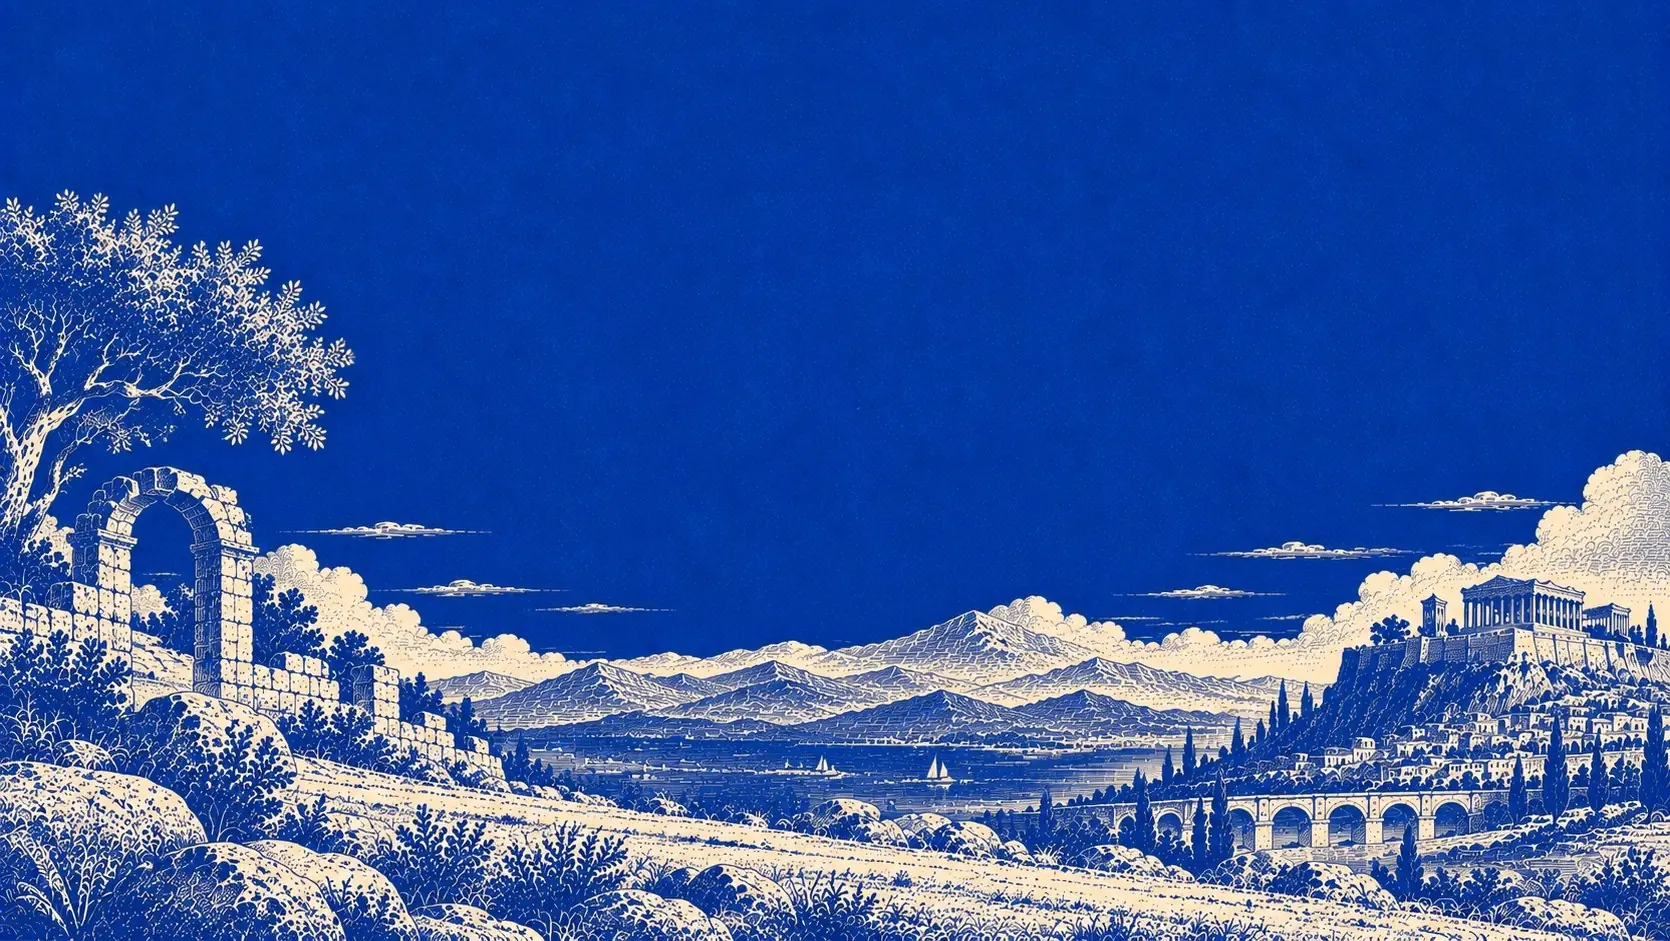
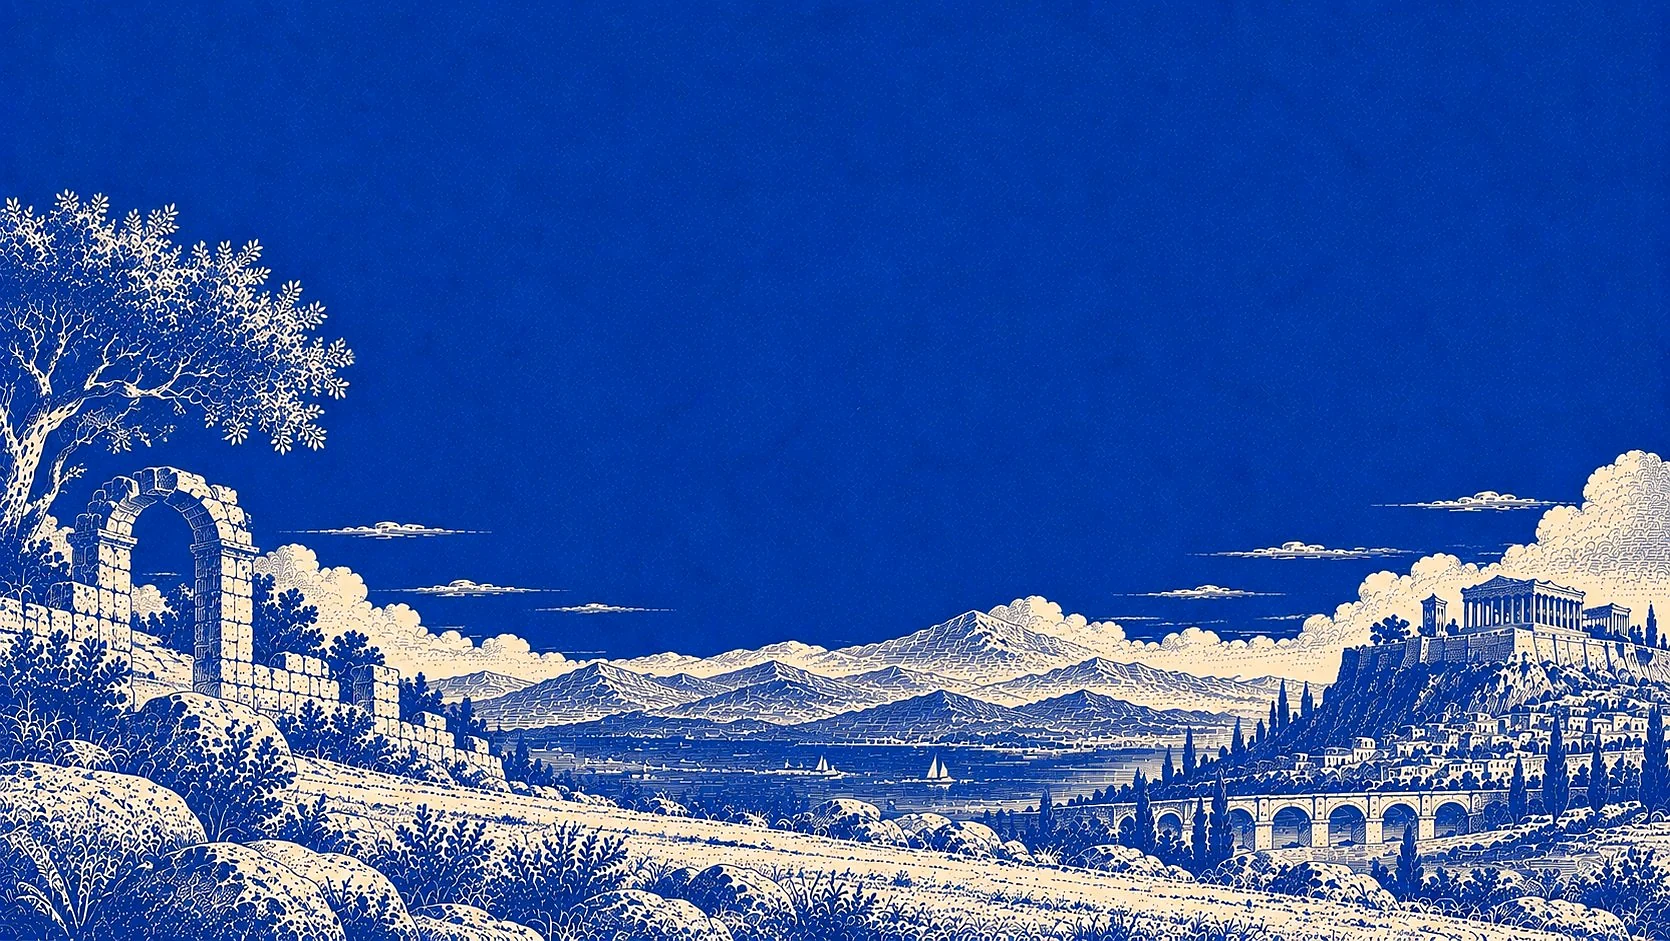
plate: liquid glass card + teks putih, gambar di-pertajam (q86)

diff --git a/src/styles/global.css b/src/styles/global.css
@@ -185,11 +185,31 @@ a .gw{text-decoration:inherit;text-decoration-color:inherit;text-underline-offse
 .plate img{position:absolute;inset:0;display:block;width:100%;height:100%;
   object-fit:cover;object-position:center 42%}
 .plate::after{content:"";position:absolute;left:0;right:0;bottom:0;height:190px;
-  background:linear-gradient(to bottom,transparent 0,rgba(5,9,24,.38) 55%,rgba(5,9,24,.88) 100%)}
+  background:linear-gradient(to bottom,transparent 0,rgba(4,7,18,.42) 55%,rgba(4,7,18,.93) 100%)}
 body:has(.plate-block) .site-foot{position:relative;z-index:1;margin-top:72px;color:#f4f3f0}
-body:has(.plate-block) .site-foot .ticker{color:#dedcd7}
+body:has(.plate-block) .site-foot .ticker{color:#fff}
+body:has(.plate-block) .plate-block .label{color:#5c5b64}
 body:has(.plate-block) .shelf-pos{color:#e8e6e1;text-shadow:0 1px 3px rgba(5,9,24,.8)}
 body:has(.plate-block) .site-foot{color:#f4f3f0;text-shadow:0 1px 3px rgba(5,9,24,.8)}
+
+/* ---- kartu & teks di atas ukiran: liquid glass + tulisan putih ---- */
+.plate-block .card-face{
+  background:linear-gradient(155deg,rgba(255,255,255,.44),rgba(255,255,255,.2) 52%,rgba(255,255,255,.32));
+  -webkit-backdrop-filter:blur(26px) saturate(125%) brightness(1.04);
+  backdrop-filter:blur(26px) saturate(125%) brightness(1.04);
+  border:1px solid rgba(255,255,255,.55);
+  box-shadow:inset 0 1px 0 rgba(255,255,255,.78),inset 0 -1px 0 rgba(255,255,255,.24),
+    0 26px 50px -26px rgba(3,7,20,.8)}
+.plate-block .card-name,.plate-block .card-desc{
+  color:#fff;text-shadow:0 1px 4px rgba(5,9,24,.7),0 0 14px rgba(5,9,24,.35)}
+.plate-block .card-name:hover{color:#ded7ff}
+.plate-block .card-note{color:rgba(255,255,255,.94);text-shadow:0 1px 3px rgba(5,9,24,.7)}
+.plate-block .shelf-btn{
+  background:rgba(255,255,255,.2);border:1px solid rgba(255,255,255,.45);color:#fff;
+  -webkit-backdrop-filter:blur(14px) saturate(160%);backdrop-filter:blur(14px) saturate(160%);
+  box-shadow:inset 0 1px 0 rgba(255,255,255,.6)}
+.plate-block .shelf-btn:disabled{color:rgba(255,255,255,.45);border-color:rgba(255,255,255,.25)}
+
 
 /* ---- meja (about): benda telanjang di atas latar polos, tanpa kartu ---- */
 .desk-mat{position:relative;width:min(var(--wide),100vw - 2rem);margin-inline:auto;min-height:560px}
